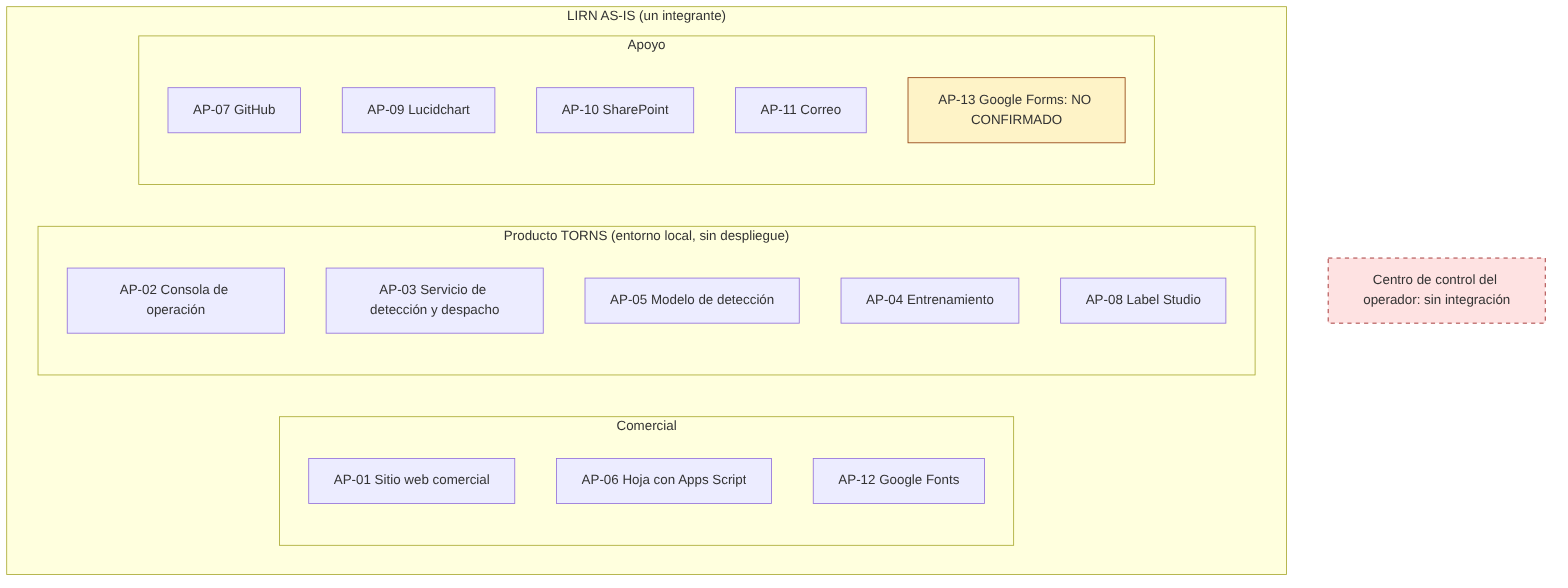
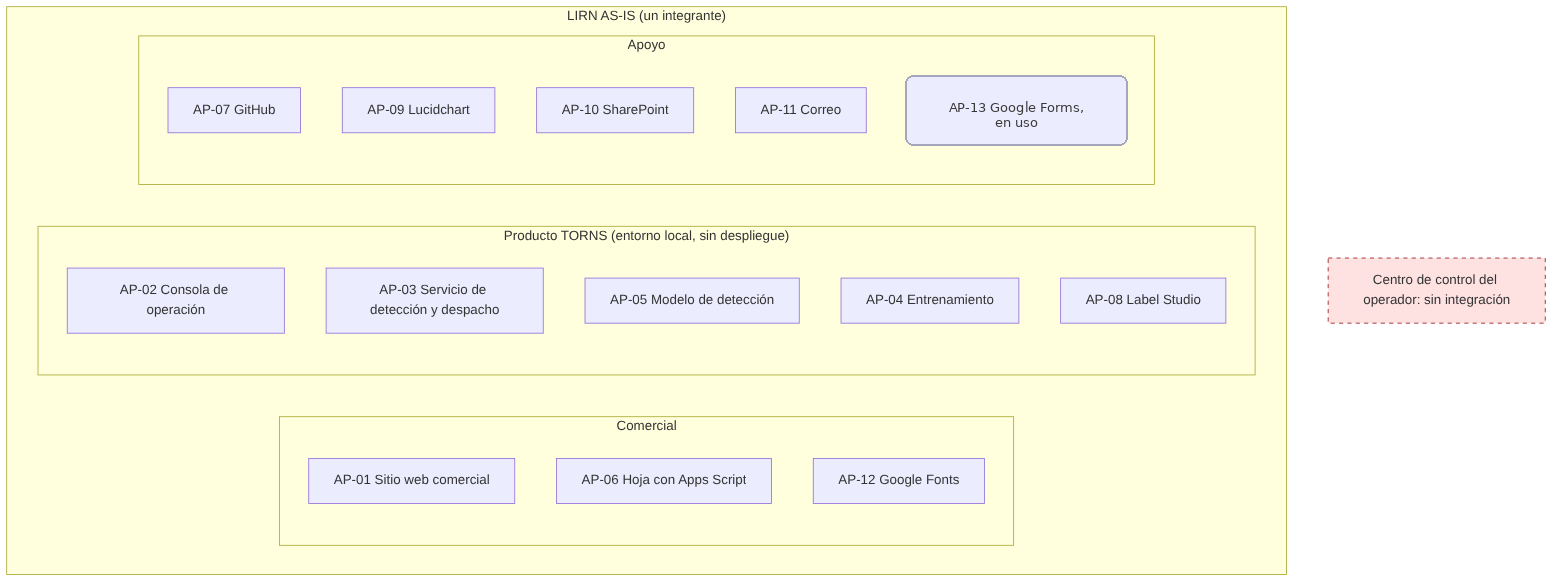
Actualización de documentos de registro y complementos de negocio. Se cierran marcas obsoletas relacionadas con el uso de Google Forms y se ajustan las fuentes normativas en los procesos de gestión financiera y talento humano. Se mejora la claridad en los diagramas de flujo y contexto, reflejando el

Changed region(s): [[0.5625, 0.1224, 0.7188, 0.2755]]

diff --git a/docs/ae-final-project/proceso/pendientes-no-confirmado.md b/docs/ae-final-project/proceso/pendientes-no-confirmado.md
@@ -1,6 +1,8 @@
-# Pendientes NO CONFIRMADO al cierre (2 de noviembre de 2026)
+# Pendientes NO CONFIRMADO al cierre (2 de noviembre de 2026; ajuste 5 de noviembre de 2026)
 
-**Totales (calculados por script):** 218 apariciones de la marca; 202 pendientes legítimos; 16 no pendientes (14 definiciones de la marca y 2 títulos de sección).
+**Totales al cierre (2 de noviembre de 2026, calculados por script):** 218 apariciones de la marca; 202 pendientes legítimos; 16 no pendientes (14 definiciones de la marca y 2 títulos de sección).
+
+**Ajuste 5 de noviembre de 2026.** Se cerraron marcas obsoletas ya bloqueadas en el registro y en el Punto 4: uso vigente de AP-13 Google Forms (los diagramas E-04-FL-E y E6a); fuentes normativas de facturación y de nómina o seguridad social (Resolución DIAN 000165 de 2023, Resolución DIAN 000013 de 2021, Ley 100 de 1993 y Decreto 1072 de 2015). Las filas correspondientes de este inventario quedan como cerradas. No se inventaron valores. Siguen pendientes las respuestas individuales, el soporte de F-15, el calendario que modifique la Resolución 000013 de 2021 y el resto de marcas de evidencia.
 
 Inventario generado con `rg -n "NO CONFIRMADO"` sobre `docs/ae-final-project` y `AGENTS.md`, sin contar este archivo. Cada aparición clasificada como pendiente es una marca de evidencia: el hecho no tiene fuente verificable en el repositorio ni declaración del dueño. Ninguna se cierra sin evidencia nueva; no se inventan valores. Las definiciones y los títulos de sección nombran la marca, pero no señalan un dato faltante. El control de calidad de M1 está en [M1-control-calidad](M1-control-calidad/).
 
@@ -40,8 +42,8 @@ Inventario generado con `rg -n "NO CONFIRMADO"` sobre `docs/ae-final-project` y 
 | ondas/M1-negocio/complementos/apoyo-roadmap-transformacion.md:51 | …ratamiento registrada / leads con autorización / leads recibidos / Gestor de leads (D-01, D-18) / Sin política publicada (Observado); valor NO CONFIRMADO | Pendiente legítimo: falta evidencia |
 | ondas/M1-negocio/complementos/apoyo-roadmap-transformacion.md:52 | …uente / Piezas públicas cuyas cifras tienen fuente verificada en SN-03 / piezas con fuente / piezas publicadas / Registro de SN-03 (D-17) / NO CONFIRMADO | Pendiente legítimo: falta evidencia |
 | ondas/M1-negocio/complementos/apoyo-roadmap-transformacion.md:54 | …o por el centro de control / recomendaciones coincidentes / recomendaciones emitidas / Historial de C-04 y registro del operador vía P-07 / NO CONFIRMADO | Pendiente legítimo: falta evidencia |
-| ondas/M1-negocio/complementos/apoyo-roadmap-transformacion.md:66 | …9 / G-N01, G-N06 / El piloto se factura electrónicamente y queda registrado en contabilidad; fuente normativa de la facturación electrónica NO CONFIRMADO | Pendiente legítimo: falta evidencia |
-| ondas/M1-negocio/complementos/apoyo-roadmap-transformacion.md:67 | …mina / CAP-10 / G-N06 / Cada vinculación queda con contrato y afiliaciones registradas; fuente normativa de seguridad social y afiliaciones NO CONFIRMADO | Pendiente legítimo: falta evidencia |
+| ondas/M1-negocio/complementos/apoyo-roadmap-transformacion.md:66 | …fuente normativa de la facturación electrónica NO CONFIRMADO | Cerrada el 5 de noviembre de 2026: Resolución DIAN 000165 de 2023, ya bloqueada en el Punto 4 |
+| ondas/M1-negocio/complementos/apoyo-roadmap-transformacion.md:67 | …fuente normativa de seguridad social y afiliaciones NO CONFIRMADO | Cerrada el 5 de noviembre de 2026: Resolución DIAN 000013 de 2021, Ley 100 de 1993 y Decreto 1072 de 2015, ya bloqueadas en el Punto 4. El calendario que modifique la 000013 sigue pendiente |
 | ondas/M1-negocio/complementos/apoyo-roadmap-transformacion.md:68 | …P-06 / G-N04, G-N05, G-N07 / Informe entregado con métricas por estación y fecha y fuente trazable; precio, duración y número de estaciones NO CONFIRMADO | Pendiente legítimo: falta evidencia |
 | ondas/M1-negocio/complementos/apoyo-roadmap-transformacion.md:74 | …## Datos NO CONFIRMADO | Título de sección (no pendiente) |
 | ondas/M1-negocio/complementos/apoyo-roadmap-transformacion.md:78 | …Santiago aprobó P-06 a P-08, SN-04 y SN-05 el 1 de noviembre de 2026 y separó P-09. Precio, duración y número de estaciones de SN-04 siguen NO CONFIRMADO | Pendiente legítimo: falta evidencia |
@@ -56,7 +58,7 @@ Inventario generado con `rg -n "NO CONFIRMADO"` sobre `docs/ae-final-project` y 
 | ondas/M1-negocio/complementos/matriz-trazabilidad-oe.md:18 | …5. Los indicadores de las fichas de proceso no cuantifican ningún objetivo. Varias metas figuran como NO CONFIRMADO | Pendiente legítimo: falta evidencia |
 | ondas/M1-negocio/complementos/to-be-negocio.md:109 | …3. Metas, plazos y costos: NO CONFIRMADO | Pendiente legítimo: falta evidencia |
 | ondas/M1-negocio/complementos/to-be-negocio.md:3 | …Los puntos de partida citan su marca AS-IS. No se fijan cifras, costos, fechas de mercado ni clientes: donde el taller pida una meta, queda NO CONFIRMADO | Pendiente legítimo: falta evidencia |
-| ondas/M1-negocio/complementos/to-be-negocio.md:49 | …ulta de separar P-08) / Apoyo / Vinculación, nómina, seguridad social y desvinculación (fuente normativa de seguridad social y afiliaciones NO CONFIRMADO | Pendiente legítimo: falta evidencia |
+| ondas/M1-negocio/complementos/to-be-negocio.md:49 | …fuente normativa de seguridad social y afiliaciones NO CONFIRMADO | Cerrada el 5 de noviembre de 2026: mismas fuentes del Punto 4. El calendario que modifique la 000013 sigue pendiente |
 | ondas/M1-negocio/complementos/to-be-negocio.md:64 | …Sin precio, duración ni número de estaciones: NO CONFIRMADO | Pendiente legítimo: falta evidencia |
 | ondas/M1-negocio/complementos/to-be-negocio.md:92 | …en como roles; un cargo nuevo solo se justifica por una capacidad ausente (CAP-07, CAP-09, CAP-10). No se fija número de personas ni fecha: NO CONFIRMADO | Pendiente legítimo: falta evidencia |
 | ondas/M1-negocio/entregable-punto-1.md:262 | …roducto. / Un solo producto ofertado (meta: Sí). Claims prohibidos detectados (meta: 0 abiertos). Revisiones de dirección (calendario fijo: NO CONFIRMADO | Pendiente legítimo: falta evidencia |
@@ -65,7 +67,7 @@ Inventario generado con `rg -n "NO CONFIRMADO"` sobre `docs/ae-final-project` y 
 | ondas/M1-negocio/entregable-punto-1.md:265 | …rta del prototipo. / Informe de acompañamiento; escalamiento a P-03 (fallo técnico) o a P-05 (claim indebido). / Sesiones realizadas (meta: NO CONFIRMADO | Pendiente legítimo: falta evidencia |
 | ondas/M1-negocio/entregable-punto-1.md:266 | …lecciones hacia P-01 y P-03. / Evidencia n=20 presente con fecha 17 de agosto de 2026 (meta: Sí). No conformidades abiertas (meta numérica: NO CONFIRMADO | Pendiente legítimo: falta evidencia |
 | ondas/M1-negocio/entregable-punto-1.md:31 | …/ NO CONFIRMADO | Definición de la marca (no pendiente) |
-| ondas/M2-datos/diagramas/E-04-FL-E-evidencia.mmd:3 | …GF["Google Forms F-14<br/>(uso vigente NO CONFIRMADO | Pendiente legítimo: falta evidencia |
+| ondas/M2-datos/diagramas/E-04-FL-E-evidencia.mmd:3 | …GF["Google Forms F-14<br/>(uso vigente NO CONFIRMADO | Cerrada el 5 de noviembre de 2026: uso de AP-13 ya bloqueado en el registro (1 de noviembre de 2026). Las respuestas individuales siguen pendientes |
 | ondas/M2-datos/diagramas/E-04-FL-E-evidencia.mmd:6 | …DOC["Documento de evidencia<br/>F-15 (soporte NO CONFIRMADO | Pendiente legítimo: falta evidencia |
 | ondas/M2-datos/entregable-punto-2.md:102 | … evidencia se publica solo lo agregado. Las respuestas individuales de la encuesta y las notas de la entrevista no están en el repositorio (NO CONFIRMADO | Pendiente legítimo: falta evidencia |
 | ondas/M2-datos/entregable-punto-2.md:118 | …ción y leads sin control de duplicados / Misma suma de verificación en ambos repositorios; la hoja real de leads no se revisó / Observado / NO CONFIRMADO | Pendiente legítimo: falta evidencia |
@@ -90,7 +92,7 @@ Inventario generado con `rg -n "NO CONFIRMADO"` sobre `docs/ae-final-project` y 
 | ondas/M2-datos/tablas/E-04-matriz-flujos.csv:15 | …icación,P-05,I-16,Observado (registro); Observado por declaración del dueño (1 de noviembre de 2026): uso de AP-13; respuestas individuales NO CONFIRMADO | Pendiente legítimo: falta evidencia |
 | ondas/M2-datos/tablas/E-04-matriz-flujos.csv:16 | …,Documento de evidencia (P-05),Persistente,Sin dato personal identificable declarado,P-05,I-16 (fuera de aplicación),Observado (registro) / NO CONFIRMADO | Pendiente legítimo: falta evidencia |
 | ondas/M2-datos/tablas/E-04-matriz-flujos.csv:5 | …de 2026): pruebas con usb0 y usb1 los días 16, 17, 18 y 20 de noviembre de 2025, en varios portátiles y PC con cámaras externas; resultados NO CONFIRMADO | Pendiente legítimo: falta evidencia |
-| ondas/M3-aplicaciones/diagramas/E6a-contexto-as-is.mmd:20 | …AP13[AP-13 Google Forms: NO CONFIRMADO | Pendiente legítimo: falta evidencia |
+| ondas/M3-aplicaciones/diagramas/E6a-contexto-as-is.mmd:20 | …AP13[AP-13 Google Forms: NO CONFIRMADO | Cerrada el 5 de noviembre de 2026: uso de AP-13 ya bloqueado en el registro |
 | ondas/M3-aplicaciones/entregable-punto-3.md:100 | …de 2026): pruebas con usb0 y usb1 los días 16, 17, 18 y 20 de noviembre de 2025, en varios portátiles y PC con cámaras externas; resultados NO CONFIRMADO | Pendiente legítimo: falta evidencia |
 | ondas/M3-aplicaciones/entregable-punto-3.md:115 | …stor de leads en reemplazo de la hoja / Arquitectura de Datos (modelo de lead y autorización); Roadmap de Transformación (riesgo y control; NO CONFIRMADO | Pendiente legítimo: falta evidencia |
 | ondas/M3-aplicaciones/entregable-punto-3.md:153 | …/ Tecnología de cola / NO CONFIRMADO | Pendiente legítimo: falta evidencia |

diff --git a/docs/ae-final-project/ondas/M1-negocio/complementos/apoyo-roadmap-transformacion.md b/docs/ae-final-project/ondas/M1-negocio/complementos/apoyo-roadmap-transformacion.md
@@ -60,8 +60,8 @@ Aprobados por Santiago el 1 de noviembre de 2026. Marca: Objetivo TO-BE, porque 
 |----------|------------|----------|---------|-----------|-------------------|------------------------|
 | P-06 Contratación y piloto | Lleva una propuesta aprobada hasta el acta de cierre del piloto | Propuesta aprobada en P-01; evaluación en estación de C-05; acuerdo de fuente de video y red con el operador | Contrato, acta de inicio, informe de resultados, acta de cierre | CAP-03, CAP-06, CAP-09 | G-N07 | Existe un piloto con contrato, actas e informe cuyas cifras pasan por SN-03 |
 | P-07 Integración con el centro de control | Acuerda y opera el intercambio técnico con el operador con decisión humana | Requisitos del operador; AP-02 y AP-03a con autenticación (DF-05) | Acuerdo de intercambio, interfaz autenticada, registro de decisiones del operador | CAP-07 | G-N06 | El operador recibe recomendaciones por un canal autenticado y su decisión queda registrada |
-| P-08 Gestión financiera y facturación | Gestiona facturación electrónica, contabilidad y contratos comerciales | NIT y matrícula de C-01; contratos de P-06 | Facturas electrónicas, registros contables, contratos comerciales | CAP-09 | G-N01, G-N06 | El piloto se factura electrónicamente y queda registrado en contabilidad; fuente normativa de la facturación electrónica NO CONFIRMADO |
-| P-09 Gestión del talento humano | Gestiona vinculación, nómina, seguridad social y desvinculación, con datos personales de empleados bajo la Ley 1581 | Necesidad de personal; NIT de C-01 | Contratos laborales, registros de nómina | CAP-10 | G-N06 | Cada vinculación queda con contrato y afiliaciones registradas; fuente normativa de seguridad social y afiliaciones NO CONFIRMADO |
+| P-08 Gestión financiera y facturación | Gestiona facturación electrónica, contabilidad y contratos comerciales | NIT y matrícula de C-01; contratos de P-06 | Facturas electrónicas, registros contables, contratos comerciales | CAP-09 | G-N01, G-N06 | El piloto se factura electrónicamente y queda registrado en contabilidad; fuente normativa: Resolución DIAN 000165 de 2023 |
+| P-09 Gestión del talento humano | Gestiona vinculación, nómina, seguridad social y desvinculación, con datos personales de empleados bajo la Ley 1581 | Necesidad de personal; NIT de C-01 | Contratos laborales, registros de nómina | CAP-10 | G-N06 | Cada vinculación queda con contrato y afiliaciones registradas; fuentes normativas: Resolución DIAN 000013 de 2021 (nómina electrónica), Ley 100 de 1993 y Decreto 1072 de 2015 (PILA). Las resoluciones que modifiquen la 000013 de 2021 y el calendario aplicable a LIRN: NO CONFIRMADO |
 | SN-04 Piloto de medición de demanda en estación | Servicio pagado, acotado en tiempo y estaciones, con informe de resultados | Contrato de P-06; video de estación; modelo evaluado | Conteos, recomendaciones históricas e informe | CAP-04, CAP-05, CAP-06 | G-N04, G-N05, G-N07 | Informe entregado con métricas por estación y fecha y fuente trazable; precio, duración y número de estaciones NO CONFIRMADO |
 | SN-05 Soporte y mejora del servicio | Atiende incidencias y ajustes acordados con el operador | Incidencias del operador; resultados de SN-04 | Incidencias resueltas, versiones del modelo o de la regla registradas | CAP-06, CAP-08 | G-N07 | Cada incidencia tiene registro de apertura, respuesta y cierre |
 

diff --git a/docs/ae-final-project/ondas/M1-negocio/complementos/to-be-negocio.md b/docs/ae-final-project/ondas/M1-negocio/complementos/to-be-negocio.md
@@ -44,8 +44,8 @@ Se conservan P-01 a P-05 y se proponen procesos nuevos solo donde una capacidad 
 | P-05 Evidencia, calidad y mejora | Apoyo | Custodia la evidencia del piloto y verifica que todo indicador publicado tenga fuente | CAP-02 |
 | P-06 Contratación y piloto (aprobado por Santiago el 1 de noviembre de 2026) | Misional | Desde la propuesta aprobada hasta el acta de inicio y cierre del piloto. Condición de entrada: evaluar el modelo con video de estación y acordar con el operador la fuente de video y la red (Objetivo TO-BE) | CAP-03, CAP-06, CAP-09 |
 | P-07 Integración con el centro de control (aprobado por Santiago el 1 de noviembre de 2026) | Misional | Acuerdo técnico y operativo de intercambio con el operador; operador humano en el circuito | CAP-07 |
-| P-08 Gestión financiera y facturación (aprobado por Santiago el 1 de noviembre de 2026) | Apoyo | Facturación electrónica, contabilidad y contratos comerciales. Entradas: NIT y matrícula de C-01 y contratos de P-06 | CAP-09 |
-| P-09 Gestión del talento humano (aprobado por Santiago el 1 de noviembre de 2026; resulta de separar P-08) | Apoyo | Vinculación, nómina, seguridad social y desvinculación (fuente normativa de seguridad social y afiliaciones NO CONFIRMADO); trata datos personales de empleados bajo la Ley 1581. Entradas: necesidad de personal y NIT de C-01 | CAP-10 |
+| P-08 Gestión financiera y facturación (aprobado por Santiago el 1 de noviembre de 2026) | Apoyo | Facturación electrónica, contabilidad y contratos comerciales. Fuente normativa: Resolución DIAN 000165 de 2023. Entradas: NIT y matrícula de C-01 y contratos de P-06 | CAP-09 |
+| P-09 Gestión del talento humano (aprobado por Santiago el 1 de noviembre de 2026; resulta de separar P-08) | Apoyo | Vinculación, nómina, seguridad social y desvinculación (fuentes normativas: Resolución DIAN 000013 de 2021, Ley 100 de 1993 y Decreto 1072 de 2015; las resoluciones que modifiquen la 000013 de 2021 y el calendario aplicable a LIRN: NO CONFIRMADO); trata datos personales de empleados bajo la Ley 1581. Entradas: necesidad de personal y NIT de C-01 | CAP-10 |
 
 En la cadena de valor TO-BE, las actividades primarias "Propuesta, contrato y piloto pagado" y "Soporte técnico y mejora con el operador", que hoy no tienen proceso (Observado), quedan cubiertas por P-06 y por P-04 extendido con SN-05, respectivamente (Objetivo TO-BE). P-07 habilita CAP-07. P-08 habilita CAP-09. P-09 habilita CAP-10.
 

diff --git a/docs/ae-final-project/ondas/M5-transformacion/02-portafolio-proyectos.md b/docs/ae-final-project/ondas/M5-transformacion/02-portafolio-proyectos.md
@@ -15,6 +15,6 @@ Todos los proyectos son Objetivo TO-BE: ninguno está en ejecución (Observado).
 | PY-09 | C-06 (CAP-09) | Gestión financiera y facturación (P-08) | Implantar P-08 con facturación electrónica y contabilidad mínima (N-06) | Poder cobrar y registrar el piloto | B-N05, B-A06 | P-08; N-06 | OE-05 |
 | PY-10 | C-06 (CAP-10) | Gestión del talento humano (P-09) | Implantar P-09 (vinculación, nómina, seguridad social, desvinculación) con N-07 y tratamiento Ley 1581 de datos de empleados | Vinculación conforme cuando la capacidad lo exija | B-N05, B-N07 | P-09; N-07 | OE-05 |
 
-La necesidad DF-08 de la Arquitectura de Datos se atiende en dos partes: N-05, registro versionado del modelo, se atiende en PY-05; N-06, facturación, se atiende en PY-09. Condiciones: PY-09 es precondición de PY-08, porque el piloto debe facturarse; marca Objetivo TO-BE (criterio del equipo), derivada de las entradas de P-06 y P-08. PY-10 es condicional: se activa solo cuando haya personal que vincular; no se le asigna fecha (NO CONFIRMADO). La fuente normativa de la facturación electrónica y la de nómina y seguridad social quedan NO CONFIRMADO.
+La necesidad DF-08 de la Arquitectura de Datos se atiende en dos partes: N-05, registro versionado del modelo, se atiende en PY-05; N-06, facturación, se atiende en PY-09. Condiciones: PY-09 es precondición de PY-08, porque el piloto debe facturarse; marca Objetivo TO-BE (criterio del equipo), derivada de las entradas de P-06 y P-08. PY-10 es condicional: se activa solo cuando haya personal que vincular; no se le asigna fecha (NO CONFIRMADO). Fuentes normativas ya bloqueadas en la Arquitectura Tecnológica: Resolución DIAN 000165 de 2023 (facturación electrónica), Resolución DIAN 000013 de 2021 (nómina electrónica), Ley 100 de 1993 y Decreto 1072 de 2015 (PILA). Las resoluciones que modifiquen la 000013 de 2021 y el calendario aplicable a LIRN siguen NO CONFIRMADO.
 
 Totales: 10 proyectos; las 26 brechas quedan cubiertas por al menos un proyecto.

diff --git a/docs/ae-final-project/registro-empresa.md b/docs/ae-final-project/registro-empresa.md
@@ -162,3 +162,10 @@ Candidatos de origen, identificados al cierre de M1:
 - Identidad TRO prohibida en entregables nuevos.
 - Lead no es cliente.
 - Observado no se presenta como Objetivo. Objetivo no se presenta como Observado.
+
+## 12. Constancia de ajuste (5 de noviembre de 2026)
+
+Alineación de marcas obsoletas, sin hechos nuevos:
+
+- El uso de AP-13 Google Forms ya estaba bloqueado como Observado por declaración del dueño (1 de noviembre de 2026). Se retiró `NO CONFIRMADO` de uso vigente en el diagrama del flujo de evidencia F-14 y en el diagrama de contexto de aplicaciones AS-IS. Siguen `NO CONFIRMADO` las respuestas individuales de la encuesta y el soporte de las notas de la entrevista (F-15).
+- Las fuentes normativas de P-08 y P-09 ya estaban bloqueadas en la Arquitectura Tecnológica (Punto 4): Resolución DIAN 000165 de 2023, Resolución DIAN 000013 de 2021, Ley 100 de 1993 y Decreto 1072 de 2015. Se retiró `NO CONFIRMADO` de esas fuentes en el apoyo al Roadmap, en la Arquitectura de Negocio TO-BE y en el Portafolio de Proyectos. Siguen `NO CONFIRMADO` las resoluciones que modifiquen la 000013 de 2021 y el calendario aplicable a LIRN.
